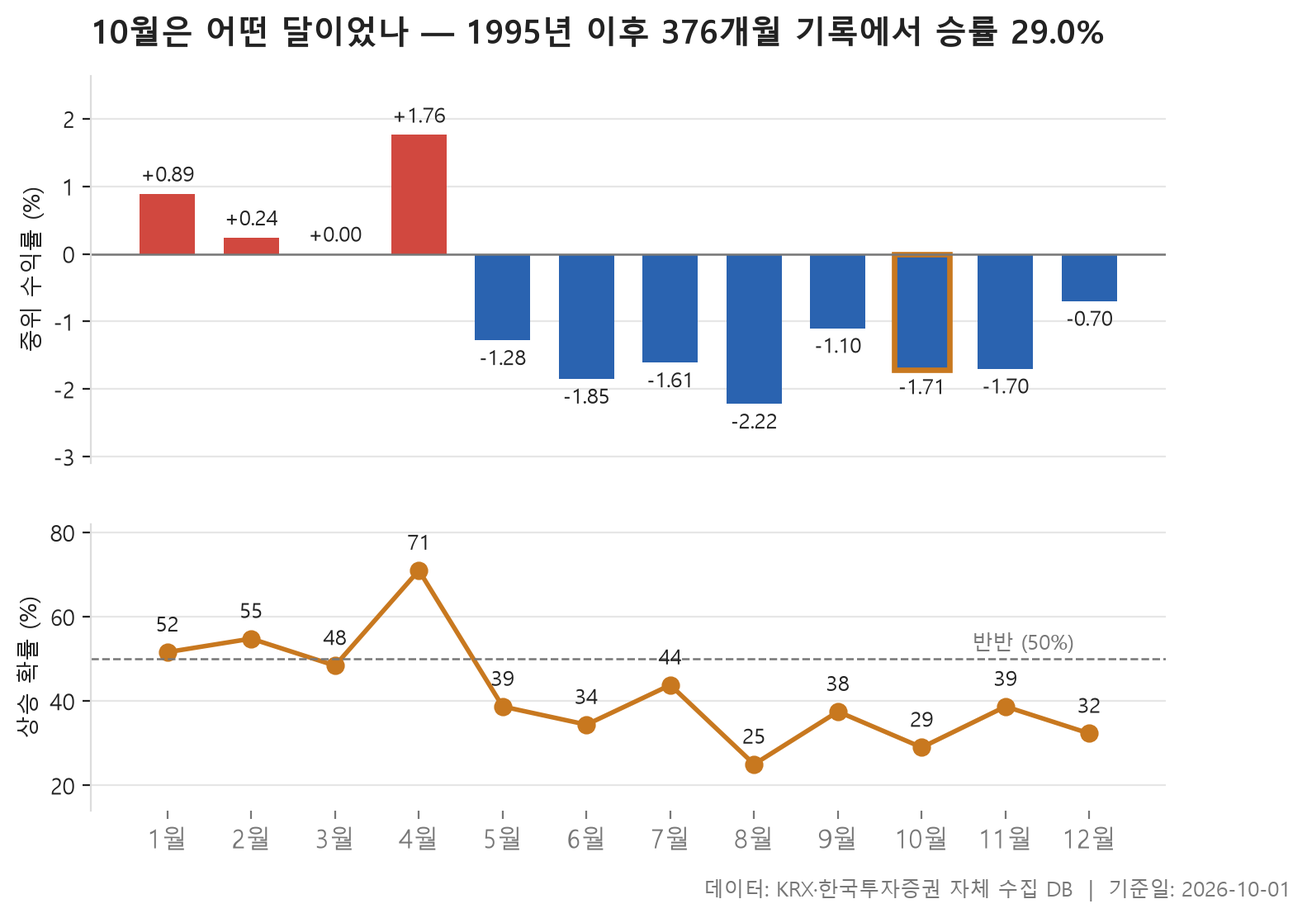
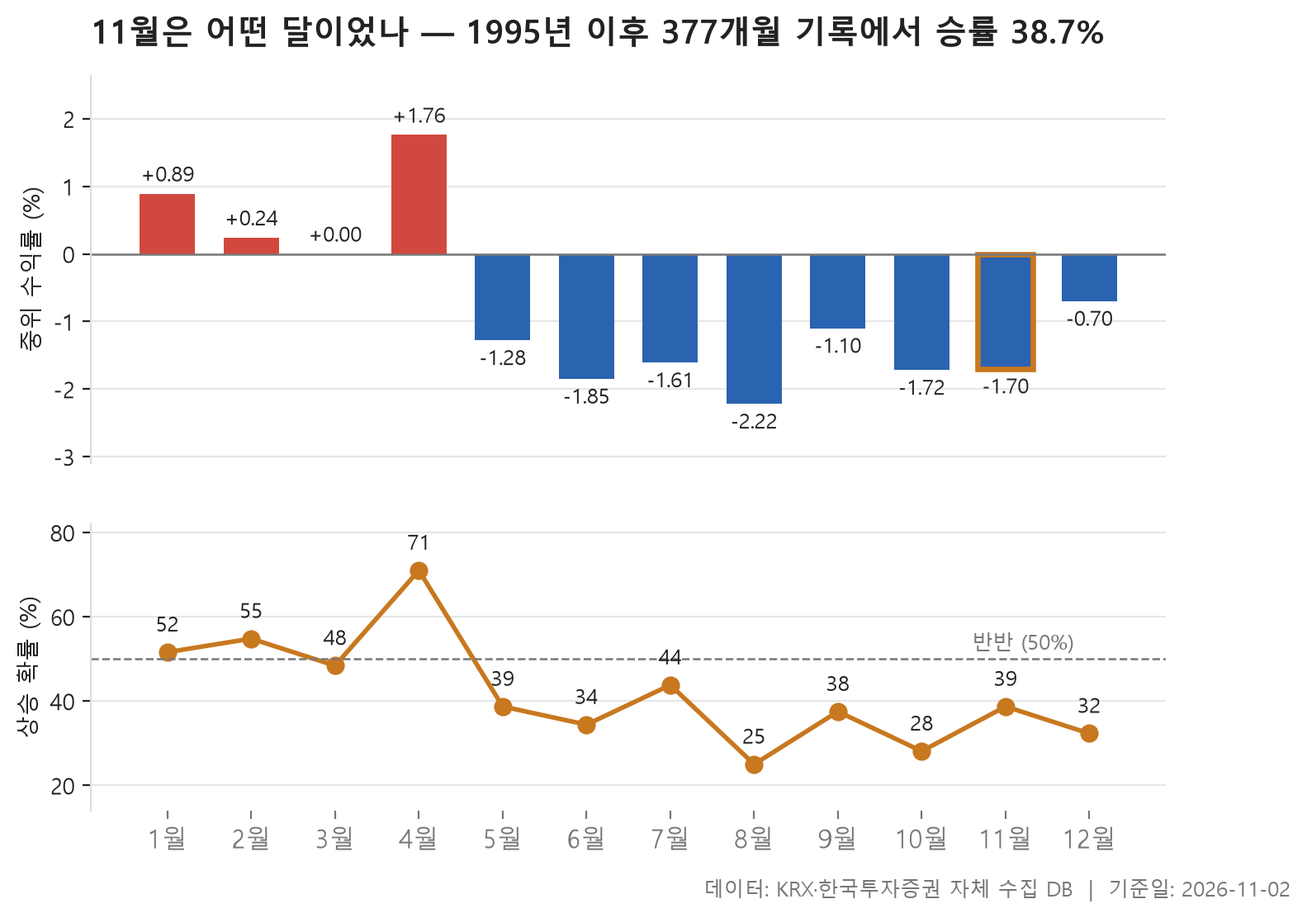
2026-11-02 자동 발행 (2편)
- 2026-11-02-daily-market
- seasonality

blog/daily.py 가 만들었습니다. push 는 사람이 확인 후 합니다.

diff --git a/content/posts/2026-11-02-daily-market/index.md b/content/posts/2026-11-02-daily-market/index.md
@@ -1,0 +1,179 @@
+---
+title: "11월 2일(월) 오늘의 시장 — 건설 강세, 보험 약세"
+date: 2026-11-02T16:10:00+09:00
+lastmod: 2026-11-02T18:12:55+09:00
+description: "24개 업종 중 23개가 올랐습니다. 52주 신고가 2개(최고 한국철강 +23.68%), 신저가 9개(최저 효성화학 -20.32%). 거래량은 에어레인이 20일 평균의 100.10배로 가장 크게 늘었습니다."
+categories: ["오늘의 시장"]
+draft: false
+sourcePack: "blog/output/2026-11-02/2026-11-02-daily-market/pack.json"
+strip:
+  - label: "업종 중위 등락률"
+    value: "+0.90%"
+    sign: "up"
+  - label: "52주 신고가"
+    value: "2개"
+    sign: ""
+  - label: "52주 신저가"
+    value: "9개"
+    sign: ""
+  - label: "거래량 급증"
+    value: "18개"
+    sign: ""
+---
+11월 2일 시장은 업종 대부분이 같은 방향을 가리킨 하루였습니다. 24개 업종 가운데 23개 업종에서 종목 등락률의 중위값이 플러스였고, 마이너스로 끝난 곳은 보험 하나뿐입니다. 업종별 중위값을 줄 세웠을 때 한가운데 놓인 값이 <span class="chg chg-up">+0.90%</span>였습니다. 크게 뛴 날은 아니어도 고르게 오른 날로 읽힙니다.
+
+맨 위에는 건설(<span class="chg chg-up">+2.09%</span>), 맨 아래에는 보험(<span class="chg chg-down">-0.32%</span>)이 자리했습니다. 그런데 업종 표만 보고 '다 좋았다'고 정리하기엔 걸리는 대목이 있습니다. 52주 신고가를 새로 쓴 종목은 2개에 그쳤고, 신저가로 밀려난 종목은 9개였습니다. 거래량이 평소보다 몇 배, 많게는 100.10배까지 불어난 종목도 18개 나왔습니다.
+
+오늘 글은 업종 흐름부터 보고, 이어서 신고가·신저가, 거래량 급증 종목을 차례로 짚습니다. 업종 전체가 오른 날에 종목 단위에서는 어떤 일이 있었는지가 오늘 볼 부분입니다.
+
+> 기준일: 2026-11-02 · 집계: 자체 수집 데이터베이스
+
+## 업종 등락률 — 24개 중 23개 상승
+
+상위권에서는 건설(<span class="chg chg-up">+2.09%</span>)과 금속(<span class="chg chg-up">+2.04%</span>)이 나란히 앞섰고 기계·장비(<span class="chg chg-up">+1.84%</span>)가 뒤를 이었습니다. 건설은 오른 폭보다 넓게 오른 점이 더 눈에 띕니다. 50개 종목 중 오른 종목 비율이 86.00%로 열 곳 중 여덟 곳 넘게 올랐습니다. 운송·창고(85.70%)와 통신(84.60%)도 이와 비슷하게 고른 상승을 보였습니다.
+
+표에서 어긋나 보이는 곳은 중위값과 평균이 벌어진 업종입니다. 운송·창고는 중위값이 <span class="chg chg-up">+1.51%</span>인데 평균은 <span class="chg chg-up">+2.91%</span>로 한참 위에 있습니다. 가장 크게 움직인 현대글로비스(<span class="chg chg-up">+11.26%</span>) 하나가 업종 평균을 0.40%p 끌어올린 셈이라, 평균이 높게 나온 데에는 이 종목의 몫이 큽니다. 금융은 사정이 조금 다릅니다. 평균(<span class="chg chg-up">+1.86%</span>)이 중위값(<span class="chg chg-up">+0.93%</span>)보다 꽤 높은데, 샘표(<span class="chg chg-up">+29.91%</span>)가 평균을 올린 폭은 0.27%p에 그칩니다. 이 종목 하나만으로는 차이가 다 설명되지 않으니, 다른 종목들도 함께 평균을 끌어올렸다고 봐야 합니다.
+
+방향이 반대인 곳은 기타제조입니다. 오른 종목 비율이 73.30%이고 중위값도 <span class="chg chg-up">+0.63%</span>인데 평균은 <span class="chg chg-down">-0.23%</span>로 마이너스입니다. 크리에이츠(<span class="chg chg-down">-17.20%</span>) 하나가 평균을 1.15%p 끌어내렸기 때문입니다. 종목 수가 15개로 적어 한 종목의 급락이 평균을 뒤집은 경우입니다. 화학도 비슷한 모습입니다. 가장 크게 움직인 종목은 효성화학(<span class="chg chg-down">-20.32%</span>)이었지만, 업종 중위값은 <span class="chg chg-up">+1.21%</span>였고 오른 종목이 넷 중 셋꼴이었습니다. 한 종목의 급락과 업종 분위기가 따로 놀았습니다.
+
+유일하게 내린 보험은 11개 종목 중 오른 비율이 36.40%로, 셋 중 하나꼴만 올랐습니다. DB손해보험(<span class="chg chg-down">-4.93%</span>)이 업종 평균을 0.45%p 끌어내렸습니다. 거래대금으로는 전기·전자가 97,423.10억원으로 다른 업종과 비교가 안 될 만큼 컸습니다. 이 업종의 중위값은 <span class="chg chg-up">+1.31%</span>로 중상위권에 올랐습니다.
+
+![업종 등락률 차트](chart-sector-change.png)
+
+| 업종 | 종목수(개) | 중위등락률(%) | 평균등락률(%) | 상승비율(%) | 주도종목 | 주도종목등락률(%) | 평균기여도(%p) | 거래대금합계(억원) |
+|---|---|---|---|---|---|---|---|---|
+| 건설 | 50 | +2.09 | +2.55 | 86.00 | GS건설 | +10.00 | 0.20 | 2,073.10 |
+| 금속 | 129 | +2.04 | +2.32 | 79.10 | 한국철강 | +23.68 | 0.18 | 3,100.20 |
+| 기계·장비 | 208 | +1.84 | +2.41 | 73.60 | 워트 | +29.92 | 0.14 | 14,279.00 |
+| 운송·창고 | 28 | +1.51 | +2.91 | 85.70 | 현대글로비스 | +11.26 | 0.40 | 2,403.00 |
+| 전기·가스 | 10 | +1.36 | +1.12 | 80.00 | SGC에너지 | +2.46 | 0.25 | 346.50 |
+| 전기·전자 | 368 | +1.31 | +1.47 | 69.30 | 코아시아 | +16.57 | 0.05 | 97,423.10 |
+| 화학 | 220 | +1.21 | +1.16 | 75.90 | 효성화학 | -20.32 | -0.09 | 9,359.80 |
+| 오락·문화 | 62 | +1.02 | +1.69 | 71.00 | 아티스트컴퍼니 | +19.27 | 0.31 | 912.20 |
+| 운송장비·부품 | 132 | +0.94 | +1.25 | 64.40 | 태양금속 | +11.05 | 0.08 | 10,104.20 |
+| 금융 | 110 | +0.93 | +1.86 | 72.70 | 샘표 | +29.91 | 0.27 | 12,509.70 |
+| 비금속 | 35 | +0.92 | +1.09 | 68.60 | KCC글라스 | +4.47 | 0.13 | 484.00 |
+| 일반서비스 | 168 | +0.91 | +1.05 | 68.50 | HLB바이오스텝 | +29.87 | 0.18 | 3,965.20 |
+| 의료·정밀기기 | 103 | +0.89 | +1.62 | 68.00 | 피앤에스로보틱스 | +29.86 | 0.29 | 1,955.40 |
+| 통신 | 13 | +0.86 | +1.17 | 84.60 | 프리티 | +3.16 | 0.24 | 624.60 |
+| 증권 | 18 | +0.81 | +0.79 | 77.80 | 키움증권 | -6.38 | -0.35 | 906.30 |
+| 제약 | 167 | +0.76 | +0.68 | 62.90 | 케어젠 | -16.59 | -0.10 | 3,868.00 |
+| 유통 | 157 | +0.69 | +0.99 | 63.10 | HLB테라퓨틱스 | +10.42 | 0.07 | 2,657.10 |
+| 기타제조 | 15 | +0.63 | -0.23 | 73.30 | 크리에이츠 | -17.20 | -1.15 | 245.90 |
+| 음식료·담배 | 83 | +0.49 | +0.95 | 66.30 | 샘표식품 | +29.86 | 0.36 | 1,300.80 |
+| 섬유·의류 | 49 | +0.43 | +0.07 | 59.20 | 형지엘리트 | -17.72 | -0.36 | 269.70 |
+| IT 서비스 | 243 | +0.30 | +0.27 | 54.70 | SGA솔루션즈 | +29.90 | 0.12 | 8,980.80 |
+| 제조 | 7 | +0.29 | +0.62 | 71.40 | 지누스 | +2.87 | 0.41 | 4.40 |
+| 종이·목재 | 27 | +0.22 | +0.62 | 55.60 | 이건산업 | +3.55 | 0.13 | 22.10 |
+| 보험 | 11 | -0.32 | -0.38 | 36.40 | DB손해보험 | -4.93 | -0.45 | 1,562.10 |
+
+## 52주 신고가 2개 — 최고 한국철강 23.68%
+
+23개 업종이 오른 날치고 52주 신고가 종목은 한국철강과 디케이락 두 곳뿐이었습니다. 시장 전체가 고르게 올랐어도 1년 가까이의 고점을 넘어설 만큼 오른 종목은 드물었다는 뜻입니다.
+
+한국철강은 하루 동안 <span class="chg chg-up">+23.68%</span> 올라 종가 12,900원을 기록했습니다. 직전 52주 최고가 11,720원을 크게 넘어선 값입니다. 이 종목은 아래 거래량 급증 표에도 36.40배로 올라 있습니다. 가격과 거래량이 같은 날 함께 터졌다는 뜻입니다. 금속 업종에서 가장 크게 움직인 종목도 한국철강이었습니다. 금속이 업종 순위 2위에 오른 것과 함께 놓고 볼 만합니다.
+
+디케이락은 <span class="chg chg-up">+6.40%</span> 올라 13,300원으로 마감했고, 이전 고점 12,790원을 넘었습니다. 두 종목 모두 오늘 상위권 업종(금속, 기계·장비) 소속입니다. 다만 왜 이날 고점을 넘었는지는 자료에 나오지 않습니다.
+
+![52주 신고가 차트](chart-high-change-rate.png)
+
+| 종목명 | 종목코드 | 시장 | 업종 | 종가(원) | 등락률(%) | 이전52주최고(원) | 거래대금(억원) | 시가총액(억원) |
+|---|---|---|---|---|---|---|---|---|
+| 한국철강 | 104700 | KOSPI | 금속 | 12,900 | +23.68 | 11,720 | 140.60 | 4,702 |
+| 디케이락 | 105740 | KOSDAQ | 기계·장비 | 13,300 | +6.40 | 12,790 | 163.30 | 1,352 |
+
+## 52주 신저가 9개 — 최저 효성화학 -20.32%
+
+신저가 종목은 9개로 신고가보다 많았습니다. 시장별로는 KOSPI 6개, KOSDAQ 3개입니다. 등락률 중위값은 <span class="chg chg-down">-5.23%</span>였는데, 낙폭의 크기는 종목마다 크게 달랐습니다.
+
+운송장비·부품이 3개로 가장 많았습니다. HL만도(<span class="chg chg-down">-5.53%</span>), SNT모티브(<span class="chg chg-down">-2.11%</span>), KG모빌리티(<span class="chg chg-down">-1.44%</span>)입니다. 이 세 종목은 크게 무너졌다기보다 이전 저점을 살짝 밑돈 쪽에 가깝습니다. KG모빌리티는 종가 2,400원으로 직전 저점 2,410원을 아주 조금 밑돌았고, HL만도도 35,000원으로 직전 저점 35,400원을 크게 벗어나지 않았습니다. 운송장비·부품 업종의 중위값은 <span class="chg chg-up">+0.94%</span>였습니다. 업종이 오르는 와중에 일부 종목만 바닥을 새로 쓴 셈입니다. 오늘 신저가 종목 중 시가총액이 가장 큰 곳도 HL만도(16,435억원)였습니다.
+
+반대로 낙폭이 큰 종목도 있었습니다. 효성화학(<span class="chg chg-down">-20.32%</span>)과 케어젠(<span class="chg chg-down">-16.59%</span>)은 이전 저점을 크게 밑돌았고, 두 종목 모두 거래량 급증 표에도 올라 있습니다. 거래가 크게 붙은 상태에서 가격이 밀렸다는 뜻입니다. 제약 업종에서는 케어젠에 이어 종근당(<span class="chg chg-down">-5.23%</span>)도 신저가에 들어 2개가 나왔습니다. SOOP(<span class="chg chg-down">-11.32%</span>)도 두 자릿수 하락으로 저점을 새로 썼습니다.
+
+![52주 신저가 차트](chart-low-change-rate.png)
+
+| 종목명 | 종목코드 | 시장 | 업종 | 종가(원) | 등락률(%) | 이전52주최저(원) | 거래대금(억원) | 시가총액(억원) |
+|---|---|---|---|---|---|---|---|---|
+| HL만도 | 204320 | KOSPI | 운송장비·부품 | 35,000 | -5.53 | 35,400 | 180.20 | 16,435 |
+| 케어젠 | 214370 | KOSDAQ | 제약 | 27,650 | -16.59 | 32,050 | 160.30 | 14,852 |
+| 종근당 | 185750 | KOSPI | 제약 | 59,800 | -5.23 | 61,000 | 21.90 | 8,254 |
+| SNT모티브 | 064960 | KOSPI | 운송장비·부품 | 23,200 | -2.11 | 23,350 | 12.50 | 5,530 |
+| KG모빌리티 | 003620 | KOSPI | 운송장비·부품 | 2,400 | -1.44 | 2,410 | 9.50 | 4,857 |
+| SOOP | 067160 | KOSDAQ | IT 서비스 | 32,900 | -11.32 | 35,450 | 52.70 | 3,681 |
+| 파트론 | 091700 | KOSDAQ | 전기·전자 | 4,490 | -4.06 | 4,610 | 13.00 | 2,245 |
+| 효성화학 | 298000 | KOSPI | 화학 | 37,050 | -20.32 | 40,050 | 50.40 | 1,405 |
+| SK디앤디 | 210980 | KOSPI | 부동산 | 2,130 | -2.96 | 2,145 | 4.90 | 1,348 |
+
+## 거래량 급증 18개 — 최고 에어레인 100.10배
+
+거래량이 직전 20거래일 평균의 5배를 넘은 종목은 18개였습니다. KOSDAQ이 11개, KOSPI가 7개입니다. 배수의 중위값은 14.95배였으니, 표에 오른 종목의 절반은 평소의 열다섯 배 가까이 거래됐다는 이야기입니다.
+
+가장 두드러진 곳은 에어레인입니다. 평소 하루 39,418주 거래되던 종목이 이날 3,944,900주가 손바뀜하며 100.10배를 기록했고, 주가는 <span class="chg chg-up">+26.07%</span> 올랐습니다. SGA솔루션즈(61.20배, <span class="chg chg-up">+29.90%</span>)가 뒤를 이었습니다. 18개 중 내린 종목은 효성화학과 케어젠 두 곳뿐이고 나머지는 모두 올랐습니다. 워트(<span class="chg chg-up">+29.92%</span>), 피앤에스로보틱스(<span class="chg chg-up">+29.86%</span>), 샘표식품(<span class="chg chg-up">+29.86%</span>)처럼 하루 상승폭이 아주 큰 종목도 여럿 섞여 있습니다. 업종 표의 금융 칸에 오른 샘표(<span class="chg chg-up">+29.91%</span>)와 이름이 겹치는 샘표식품이 같은 날 함께 크게 올랐다는 점은 눈에 띄지만, 그 이유는 자료로 확인할 수 없습니다.
+
+업종으로는 기계·장비가 4개로 가장 많았습니다(에어레인, 워트, 라온로보틱스, 화천기계). 기계·장비가 업종 순위 3위에 오른 것과 맞아떨어집니다. 화학도 진양화학, 원익홀딩스, 대정화금, 효성화학이 들어 같은 수를 채웠습니다. 원익홀딩스는 배수가 5.40배로 표 하단에 있지만, 시가총액이 24,986억원으로 가장 크고 거래대금도 2,483.50억원으로 압도적입니다. 배수가 높은 종목은 대개 평소 거래가 적은 소형주였습니다. 실제로 돈이 많이 몰린 곳을 보려면 배수 순서와 거래대금을 나란히 놓고 봐야 합니다.
+
+![거래량 급증 차트](chart-volume-ratio.png)
+
+| 종목명 | 종목코드 | 시장 | 업종 | 종가(원) | 등락률(%) | 거래량(주) | 평균거래량(주) | 배수(배) | 거래대금(억원) | 시가총액(억원) |
+|---|---|---|---|---|---|---|---|---|---|---|
+| 에어레인 | 163280 | KOSDAQ | 기계·장비 | 4,545 | +26.07 | 3,944,900 | 39,418 | 100.10 | 173.50 | 618 |
+| SGA솔루션즈 | 184230 | KOSDAQ | IT 서비스 | 3,345 | +29.90 | 11,648,506 | 190,202 | 61.20 | 346.40 | 630 |
+| 한국철강 | 104700 | KOSPI | 금속 | 12,900 | +23.68 | 1,089,218 | 29,911 | 36.40 | 140.60 | 4,702 |
+| KISCO홀딩스 | 001940 | KOSPI | 금속 | 28,300 | +19.92 | 112,201 | 4,102 | 27.40 | 32.10 | 4,012 |
+| 풀무원 | 017810 | KOSPI | 음식료·담배 | 8,570 | +6.59 | 283,787 | 14,063 | 20.20 | 24.70 | 3,267 |
+| 피앤에스로보틱스 | 460940 | KOSDAQ | 의료·정밀기기 | 5,480 | +29.86 | 3,710,699 | 189,367 | 19.60 | 195.80 | 737 |
+| 워트 | 396470 | KOSDAQ | 기계·장비 | 7,860 | +29.92 | 5,810,680 | 353,108 | 16.50 | 423.70 | 1,267 |
+| 라온로보틱스 | 232680 | KOSDAQ | 기계·장비 | 13,500 | +16.88 | 5,405,267 | 357,504 | 15.10 | 716.60 | 1,790 |
+| 현대힘스 | 460930 | KOSDAQ | 운송장비·부품 | 10,770 | +11.03 | 1,030,926 | 68,063 | 15.10 | 111.20 | 3,824 |
+| 화천기계 | 010660 | KOSPI | 기계·장비 | 3,450 | +9.18 | 1,179,866 | 79,644 | 14.80 | 40.80 | 759 |
+| 효성화학 | 298000 | KOSPI | 화학 | 37,050 | -20.32 | 134,525 | 12,383 | 10.90 | 50.40 | 1,405 |
+| 코아시아 | 045970 | KOSDAQ | 전기·전자 | 3,835 | +16.57 | 578,457 | 58,627 | 9.90 | 21.60 | 1,009 |
+| 케어젠 | 214370 | KOSDAQ | 제약 | 27,650 | -16.59 | 602,283 | 62,882 | 9.60 | 160.30 | 14,852 |
+| 샘표식품 | 248170 | KOSPI | 음식료·담배 | 27,400 | +29.86 | 123,072 | 14,853 | 8.30 | 33.70 | 1,251 |
+| SBI인베스트먼트 | 019550 | KOSDAQ | 금융 | 643 | +9.17 | 2,465,999 | 339,988 | 7.30 | 15.90 | 518 |
+| 진양화학 | 051630 | KOSPI | 화학 | 3,380 | +6.12 | 7,321,022 | 1,221,958 | 6.00 | 248.00 | 717 |
+| 원익홀딩스 | 030530 | KOSDAQ | 화학 | 32,350 | +9.66 | 7,812,713 | 1,444,514 | 5.40 | 2,483.50 | 24,986 |
+| 대정화금 | 120240 | KOSDAQ | 화학 | 14,890 | +4.86 | 34,791 | 6,871 | 5.10 | 5.10 | 1,071 |
+
+## 정리
+
+정리하면 11월 2일은 업종 단위로는 넓게 오른 날이었지만, 신저가 9개와 큰 폭으로 오르내린 개별 종목들을 보면 종목 단위에서는 흐름이 갈린 하루였습니다. 업종 평균 하나만 보면 기타제조나 운송·창고처럼 한 종목에 끌려간 숫자를 업종 전체의 움직임으로 잘못 읽기 쉽습니다.
+
+이 글은 하루치 종가 데이터만으로 만든 것입니다. 왜 올랐고 왜 내렸는지는 자료에 담겨 있지 않습니다. 업종 분류와 필터 기준(시가총액 500억 이상, 보통주 등)에 따라 표에 들어가는 종목이 달라질 수 있다는 점도 함께 감안해 주세요.
+
+## 집계 기준
+
+**업종 등락률**
+
+- **기준**: 2026-10-30 종가 → 2026-11-02 종가
+- **순위**: 업종 내 종목 등락률의 중위값 (평균은 참고용으로 함께 표시)
+- **주도종목**: 그 업종에서 등락률 절대값이 가장 큰 종목 (동점이면 거래대금이 큰 쪽)
+- **평균기여도**: 그 종목 하나가 업종 평균을 움직인 폭 (등락률 ÷ 종목수). 중위값과 평균의 격차가 이 값에 가까우면 평균을 만든 것이 그 종목이고, 훨씬 크면 다른 종목들도 함께 움직인 것입니다
+- **필터**: 업종 내 보통주 5종목 이상
+- **전체업종중위등락률(%)**: 0.9
+
+**52주 신고가**
+
+- **기준**: 종가 > 직전 52주 최고가
+- **관측구간**: 2025-10-21 ~ 2026-10-30 (252거래일)
+- **필터**: 시가총액 500억 이상, 거래대금 3억 이상, 보통주
+
+**52주 신저가**
+
+- **기준**: 종가 < 직전 52주 최저가
+- **관측구간**: 2025-10-21 ~ 2026-10-30 (252거래일)
+- **필터**: 시가총액 500억 이상, 거래대금 3억 이상, 보통주
+
+**거래량 급증**
+
+- **기준**: 당일 거래량 ≥ 직전 20거래일 평균 × 5
+- **관측구간**: 2026-10-01 ~ 2026-10-30 (20거래일)
+- **필터**: 시가총액 500억 이상, 거래대금 3억 이상, 보통주
+
+## 데이터 출처 및 유의사항
+
+- **데이터출처**: 한국거래소(KRX) 공시 데이터와 한국투자증권 OpenAPI 를 직접 수집해 구축한 자체 데이터베이스
+- **집계방식**: 수집·집계·차트 생성을 직접 구현한 파이프라인에서 자동 산출
+- **작성고지**: 본문의 표·통계·차트는 자체 데이터베이스에서 계산된 값이며, 문장 작성 과정에 AI 도구를 활용했습니다.
+- **면책**: 본 글은 정보 제공을 목적으로 하며 특정 종목의 매수·매도를 추천하지 않습니다. 제시된 수치는 과거 데이터이고 미래 수익을 보장하지 않습니다. 투자 판단과 그 결과에 대한 책임은 투자자 본인에게 있습니다.
+

diff --git a/content/seasonality/index.md b/content/seasonality/index.md
@@ -1,33 +1,33 @@
 ---
-title: "10월은 어떤 달이었나 — 1995년 이후 376개월 기록에서 승률 29.0%"
-date: 2026-10-01T16:10:00+09:00
-lastmod: 2026-10-01T17:59:26+09:00
-description: "10월은 1995-06 ~ 2026-09 기간의 기록에서 31번 중 9번 올라 승률 29.0%, 중위 수익률 -1.71%입니다. 열두 달을 중위 수익률로 줄 세우면 10번째입니다. 가장 강한 달은 4월(중위 1.76%), 가장 약한 달은 8월(중위 -2.22%)입니다."
+title: "11월은 어떤 달이었나 — 1995년 이후 377개월 기록에서 승률 38.7%"
+date: 2026-11-02T16:10:00+09:00
+lastmod: 2026-11-02T18:12:55+09:00
+description: "11월은 1995-06 ~ 2026-10 기간의 기록에서 31번 중 12번 올라 승률 38.7%, 중위 수익률 -1.7%입니다. 열두 달을 중위 수익률로 줄 세우면 9번째입니다. 가장 강한 달은 4월(중위 1.76%), 가장 약한 달은 8월(중위 -2.22%)입니다."
 categories: ["계절성"]
 draft: false
 sourcePack: "blog/output/standalone/seasonality/pack.json"
 strip:
   - label: "이달 승률"
-    value: "29.00%"
+    value: "38.70%"
     sign: ""
 ---
-10월이 시작됐습니다. 오늘은 특정 종목이나 하루 시세 대신, 달력에서 10월이라는 자리가 과거에 어떤 모습이었는지 돌아봅니다. 자료는 1995년 6월부터 2026년 9월까지, 집계에 쓸 수 있었던 376개월의 기록입니다. 매달 마지막 거래일 종가로 상장 종목 하나하나의 한 달 수익률을 구하고, 그 값들을 줄 세웠을 때 한가운데 오는 값을 그달의 성적으로 삼았습니다. 지수 하나가 아니라 **'보통 종목은 그달에 어땠는가'**를 보는 방식이라고 생각하시면 됩니다.
+11월 첫 거래일을 맞아, 지난 기록에서 11월이 어떤 달이었는지 꺼내 봅니다. 1995년 6월부터 2026년 10월까지 377개월 동안 매달 말 종가로 KOSPI·KOSDAQ 보통주의 한 달 수익률을 하나하나 구하고, 그 한가운데 값을 그달의 성적으로 삼았습니다. 지수 하나가 얼마나 움직였는지와는 다른 숫자입니다. **평범한 종목 하나가 그달을 어떻게 보냈는지**에 더 가깝다고 보면 됩니다.
 
-결론부터 말하면 10월의 기록은 밝지 않습니다. 31번의 10월 가운데 오른 해는 9번으로, 비율은 29.0%입니다. 열 번 중 일곱 번가량은 보통 종목이 내린 채로 달을 마쳤다는 뜻입니다. 중위 수익률은 <span class="chg chg-down">-1.71%</span>이고, 열두 달을 이 값으로 줄 세우면 10번째에 놓입니다. 아래쪽인 것은 분명하지만 맨 아래는 아닙니다. 가장 약한 달은 8월(<span class="chg chg-down">-2.22%</span>), 가장 강한 달은 4월(<span class="chg chg-up">+1.76%</span>)입니다.
+결론부터 말하면 11월은 31번 가운데 12번 올랐습니다. 오른 해의 비율은 38.7%, 중위 수익률은 <span class="chg chg-down">-1.70%</span>입니다. 열두 달을 줄 세우면 9번째로, 아래쪽에 속합니다.
 
-다만 이런 계절성 통계는 과거에 어떤 모양이 반복됐는지를 보여 줄 뿐이고, 올해 10월이 어떻게 흘러갈지는 알려 주지 않습니다. 아래에서는 표를 읽는 요령과 이 집계가 가진 한계를 함께 짚어 보겠습니다.
+그런데 표를 조금 더 들여다보면 숫자 하나로 정리하기 어려운 달이라는 게 드러납니다. 한가운데 값은 약한데 평균은 0에 거의 붙어 있습니다. 오늘 글에서는 이 차이가 무엇을 뜻하는지, 그리고 11월이 이웃한 달들 사이에서 어디쯤 서 있는지를 차례로 살펴봅니다.
 
-> 기준일: 2026-10-01 · 집계: 자체 수집 데이터베이스
+> 기준일: 2026-11-02 · 집계: 자체 수집 데이터베이스
 
-## 10월은 31번 중 9번 올랐습니다 — 승률 29.0%, 중위 -1.71%
+## 11월은 31번 중 12번 올랐습니다 — 승률 38.7%, 중위 -1.7%
 
-먼저 표 전체가 어떻게 생겼는지 봅니다. 열두 달 가운데 중위 수익률이 플러스인 달은 1월(<span class="chg chg-up">+0.89%</span>), 2월(<span class="chg chg-up">+0.24%</span>), 4월(<span class="chg chg-up">+1.76%</span>) 세 개뿐이고, 3월은 정확히 0.00%이며, 나머지 8개 달은 모두 마이너스입니다. 열두 달의 중위 수익률을 다시 늘어놓으면 한가운데 값이 <span class="chg chg-down">-1.19%</span>입니다. 이 표에서는 '보통의 달'이 원래 조금 내리는 달인 셈이죠. 그러니 10월을 평가할 때는 0과 비교하기보다 이 한가운데 값과 비교하는 편이 공정합니다. 그렇게 놓고 봐도 10월의 <span class="chg chg-down">-1.71%</span>는 평범한 달보다 한 단계 아래에 있습니다.
+먼저 열두 달 전체의 모양부터 보겠습니다. 중위 수익률이 플러스인 달은 1월, 2월, 4월 세 달뿐입니다. 3월은 정확히 0.00%로 오르지도 내리지도 않았고, 나머지 8개월은 모두 마이너스입니다. 열두 달 값을 늘어놓았을 때 한가운데 놓이는 값도 <span class="chg chg-down">-1.19%</span>입니다. 이 집계 방식에서는 보통 종목이 한 달을 보내고 나면 조금 밀려 있는 경우가 더 흔했다는 뜻입니다. 맨 위는 4월로 중위 수익률이 <span class="chg chg-up">+1.76%</span>이고, 31번 중 22번 올라 오른 해의 비율이 71.0%에 이릅니다. 맨 아래는 8월로 <span class="chg chg-down">-2.22%</span>이며, 32번 가운데 8번만 올라 네 해에 한 번꼴이었습니다. 연초와 봄에 강하고 여름부터 가을까지 약한 흐름이 비교적 또렷하게 보입니다.
 
-오른 해의 비율로 보면 10월은 더 두드러집니다. 29.0%는 8월의 25.0%에 이어 두 번째로 낮습니다. 흥미로운 대목은 6월입니다. 6월은 중위 수익률이 <span class="chg chg-down">-1.85%</span>로 10월보다 낮지만, 오른 해의 비율은 34.4%로 10월보다 높습니다. 한가운데 값의 순위와 오른 해의 비율이 꼭 같은 순서로 움직이지는 않는다는 이야기입니다. 10월은 두 기준 모두에서 아래쪽에 있어서, 어느 잣대로 봐도 약한 달로 분류되는 몇 안 되는 경우입니다.
+11월은 이 약한 쪽 무리의 한가운데쯤에 있습니다. 중위 수익률 <span class="chg chg-down">-1.70%</span>는 바로 아래 10월의 <span class="chg chg-down">-1.72%</span>와 거의 붙어 있고, 바로 위 7월의 <span class="chg chg-down">-1.61%</span>와도 차이가 크지 않습니다. 순위는 9번째지만 아래위 이웃과 촘촘하게 붙어 있어서, 순위 하나만 보고 큰 의미를 두기는 어렵습니다. 오른 해의 비율 38.7%는 5월과 똑같습니다. 열 해 가운데 네 해가 채 안 되게 올랐다고 보면 됩니다.
 
-표만 봐서는 놓치기 쉬운 부분이 평균입니다. 10월의 평균 수익률은 <span class="chg chg-down">-3.28%</span>로 열두 달 중 가장 낮고, 중위값 <span class="chg chg-down">-1.71%</span>보다 꽤 아래로 처져 있습니다. 평균이 중위값보다 크게 낮다는 것은 대다수의 10월보다 유난히 나빴던 몇 번의 10월이 평균을 끌어내렸다는 뜻입니다. 실제로 최저 기록 <span class="chg chg-down">-31.63%</span>는 표 전체에서 가장 깊습니다. 그다음으로 깊은 12월의 <span class="chg chg-down">-25.49%</span>와도 차이가 큽니다. 그렇다고 위쪽이 막혀 있었던 것도 아니어서 최고 기록은 <span class="chg chg-up">+14.85%</span>입니다. 10월은 보통은 조금 내리고, 가끔은 크게 무너졌으며, 드물게 크게 오르기도 한 달이었습니다. 위아래 폭이 넓은 달입니다.
+표에서 가장 어긋나 보이는 대목은 평균입니다. 11월의 평균 수익률은 <span class="chg chg-down">-0.02%</span>로, 중위값 <span class="chg chg-down">-1.70%</span>보다 꽤 위에 있습니다. 한가운데 종목은 밀렸는데 전체 평균은 거의 제자리였다는 것은, 일부 종목이나 일부 해에 크게 오른 값이 섞여 평균을 끌어올렸을 가능성을 시사합니다. 기록상 최고치를 보면 그렇게 읽을 여지가 있습니다. 11월의 최고 기록은 <span class="chg chg-up">+17.05%</span>로 1월(<span class="chg chg-up">+31.15%</span>)과 4월(<span class="chg chg-up">+19.57%</span>) 다음으로 높습니다. 반대로 최저 기록은 <span class="chg chg-down">-12.82%</span>여서, 10월의 <span class="chg chg-down">-31.63%</span>나 12월의 <span class="chg chg-down">-25.49%</span>에 비하면 아래쪽 꼬리가 짧은 편입니다. 대체로 조금씩 밀리는 해가 많았지만, 크게 무너진 해보다는 크게 오른 해가 더 눈에 띄는 달이었다고 정리할 수 있습니다. 다만 그런 해가 왜 나왔는지는 이 표가 말해 주지 않습니다.
 
-다른 달과 비교하면 이 비대칭이 더 잘 보입니다. 11월은 중위 수익률이 <span class="chg chg-down">-1.70%</span>로 10월과 거의 같지만 평균은 <span class="chg chg-down">-0.02%</span>로 0에 가깝습니다. 7월도 중위 <span class="chg chg-down">-1.61%</span>에 평균 <span class="chg chg-down">-0.48%</span>로, 가끔 나온 강한 달이 평균을 위로 끌어올린 모양입니다. 1월 역시 평균 <span class="chg chg-up">+1.97%</span>가 중위 <span class="chg chg-up">+0.89%</span>보다 높고, 최고 기록은 <span class="chg chg-up">+31.15%</span>입니다. 10월은 그 반대 방향으로 치우쳐 있습니다. 표의 맨 위에 있는 4월은 31번 중 22번 올라 71.0%를 기록했고 평균도 <span class="chg chg-up">+2.00%</span>로 중위값과 크게 다르지 않습니다. 맨 아래의 8월은 32번 중 8번만 올랐습니다.
+앞뒤 달과 나란히 놓으면 대비가 더 뚜렷해집니다. 10월은 한가운데 값이 11월과 거의 같지만 평균은 <span class="chg chg-down">-3.46%</span>로 훨씬 낮습니다. 크게 빠진 해가 평균을 끌어내린 모양입니다. 12월은 반대로 중위 수익률이 <span class="chg chg-down">-0.70%</span>로 11월보다 덜 나쁜데, 평균은 <span class="chg chg-down">-2.16%</span>이고 오른 해의 비율은 32.3%에 그칩니다. 세 달의 한가운데 값만 보면 연말로 갈수록 나아지는 것처럼 보이지만, 평균과 꼬리까지 함께 보면 11월이 오히려 가장 덜 험한 모양에 가깝습니다. 어느 숫자를 기준으로 삼느냐에 따라 달의 인상이 꽤 달라진다는 점을 기억해 둘 만합니다.
 
 ![계절성 차트](chart-seasonality.png)
 
@@ -42,25 +42,25 @@ strip:
 | 7월 | 32 | -1.61 | -0.48 | 14 | 43.80 | +9.91 | -12.65 |
 | 8월 | 32 | -2.22 | -2.04 | 8 | 25.00 | +8.39 | -10.90 |
 | 9월 | 32 | -1.10 | -2.73 | 12 | 37.50 | +12.96 | -17.69 |
-| 10월 | 31 | -1.71 | -3.28 | 9 | 29.00 | +14.85 | -31.63 |
+| 10월 | 32 | -1.72 | -3.46 | 9 | 28.10 | +14.85 | -31.63 |
 | 11월 | 31 | -1.70 | -0.02 | 12 | 38.70 | +17.05 | -12.82 |
 | 12월 | 31 | -0.70 | -2.16 | 10 | 32.30 | +16.67 | -25.49 |
 
 ## 정리
 
-정리하면, 지난 기록 속 10월은 **오른 해가 셋 중 하나에도 못 미치고, 한가운데 값은 평범한 달보다 낮으며, 몇 번의 큰 하락이 평균을 더 끌어내린 달**이었습니다. 순위로는 10번째지만, 가장 깊었던 하락까지 따지면 표에서 꼬리 위험이 가장 두드러진 달이라고 볼 수 있습니다.
+정리하면 11월은 한가운데 종목 기준으로는 약한 쪽(9번째, <span class="chg chg-down">-1.70%</span>)에 서 있지만, 평균이 <span class="chg chg-down">-0.02%</span>로 0에 가깝고 위쪽 꼬리가 아래쪽보다 긴, 모양이 비대칭인 달이었습니다.
 
-한계도 분명히 해 둡니다. 상장폐지된 종목은 집계에서 빠지기 때문에 과거 수익률이 실제보다 좋게 나왔을 수 있고, 종목마다 수정주가 반영 여부가 달라 개별 수익률에는 오차가 섞여 있습니다. 무엇보다 달마다 관측이 31번이나 32번뿐이라 몇 해의 극단적인 결과만으로도 순위가 쉽게 바뀝니다. 이 표는 10월이 과거에 어떤 모습이었는지를 보여 줄 뿐, 올해 10월의 방향을 알려 주는 근거로 쓰기는 어렵습니다.
+다만 이 표에는 한계가 분명합니다. 상장폐지된 종목은 종목 마스터에 남지 않아 집계에서 빠지기 때문에 과거 수익률이 실제보다 높게 나왔을 수 있습니다. 한 달 수익률은 극단값을 잘라서 반영했고, 수정주가 적용 여부가 종목마다 달라 개별 수익률에는 오차가 있을 수 있습니다. 무엇보다 11월 하나에 쌓인 기록은 31번뿐이라 몇몇 해의 사정만으로도 숫자가 쉽게 흔들립니다. 지난 기록이 이번 11월의 방향을 알려 주지는 않으며, 이 글은 과거 분포를 설명하는 데서 멈춥니다.
 
 ## 집계 기준
 
 - **기준**: 매월 말 거래일 종가 기준, 전 종목 개별 수익률의 중위값
-- **관측구간**: 1995-06 ~ 2026-09 (유효 376개월)
-- **이번달**: 10월
-- **이번달순위**: 10
+- **관측구간**: 1995-06 ~ 2026-10 (유효 377개월)
+- **이번달**: 11월
+- **이번달순위**: 9
 - **모집단**: 종목 마스터에 등재된 KOSPI·KOSDAQ 보통주 (ETF·ETN·우선주 제외)
-- **생존편향**: 상장폐지된 종목은 종목 마스터에 남지 않아 집계에서 빠집니다. 따라서 과거 수익률은 실제보다 높게 나올 수 있습니다. 집계 종목 수는 그달 거래된 전체 종목(ETF·우선주 포함) 대비 1995-06 360/955종목, 2026-09 2,527/4,044종목 입니다.
-- **표본제외**: 집계 종목이 300개 미만인 0개월은 제외 (전체 377개월 중)
+- **생존편향**: 상장폐지된 종목은 종목 마스터에 남지 않아 집계에서 빠집니다. 따라서 과거 수익률은 실제보다 높게 나올 수 있습니다. 집계 종목 수는 그달 거래된 전체 종목(ETF·우선주 포함) 대비 1995-06 360/955종목, 2026-10 2,529/4,282종목 입니다.
+- **표본제외**: 집계 종목이 300개 미만인 0개월은 제외 (전체 378개월 중)
 - **이상치처리**: 월 수익률은 절대값 100% 상한으로 절삭합니다(액면분할·병합 왜곡 완화). 버리지 않고 자르는 이유는, 버리면 하한이 -100%로 막힌 수익률 분포에서 급등만 사라져 통계가 아래로 치우치기 때문입니다.
 - **주의**: 종가는 수정주가 여부가 종목별로 다를 수 있어 개별 종목 수익률에는 오차가 있을 수 있습니다. 중위값을 쓰는 이유입니다.
 
